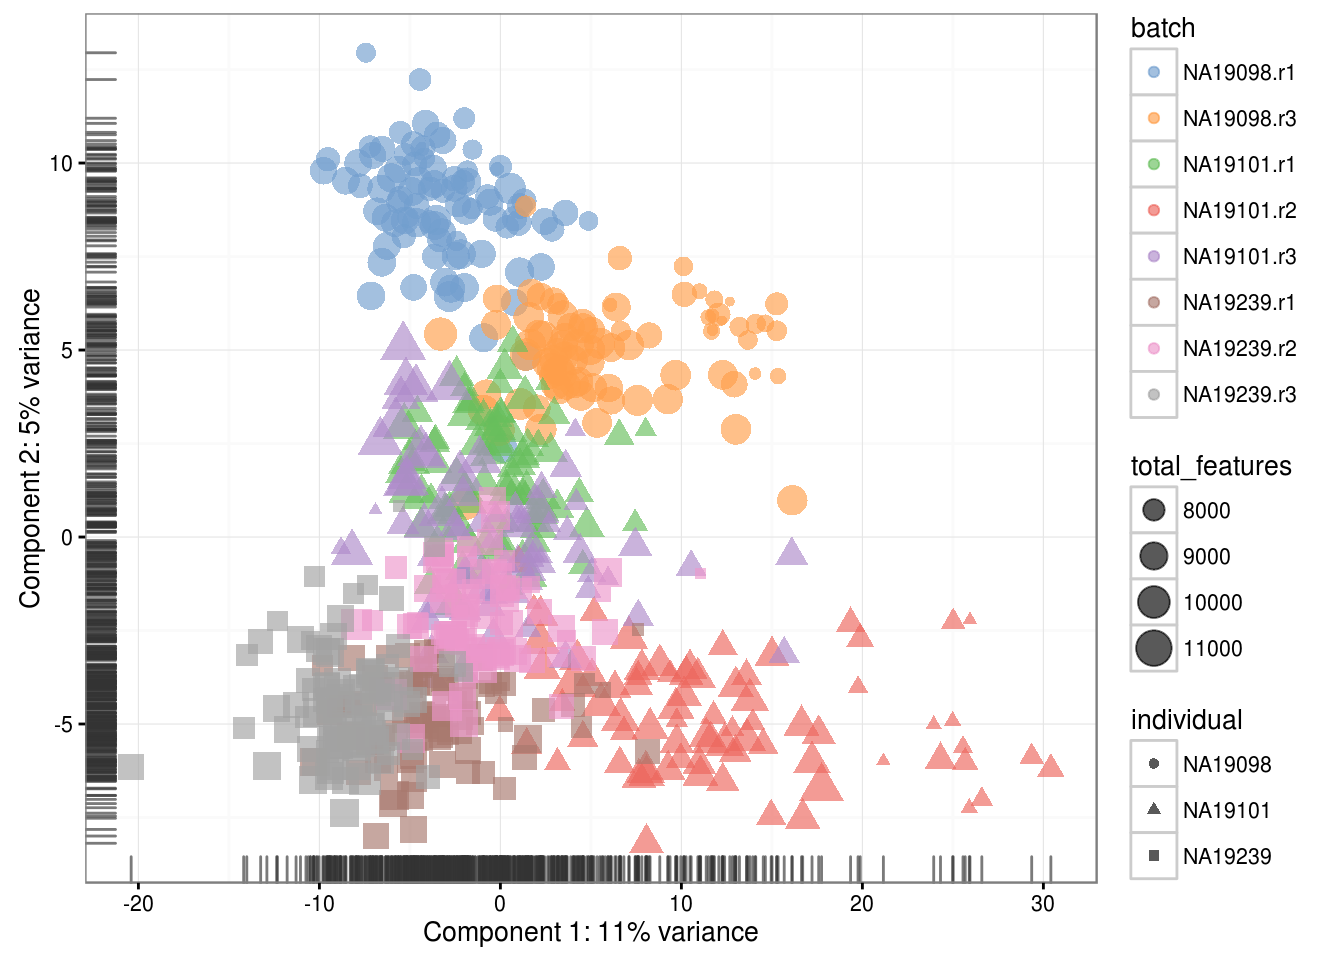
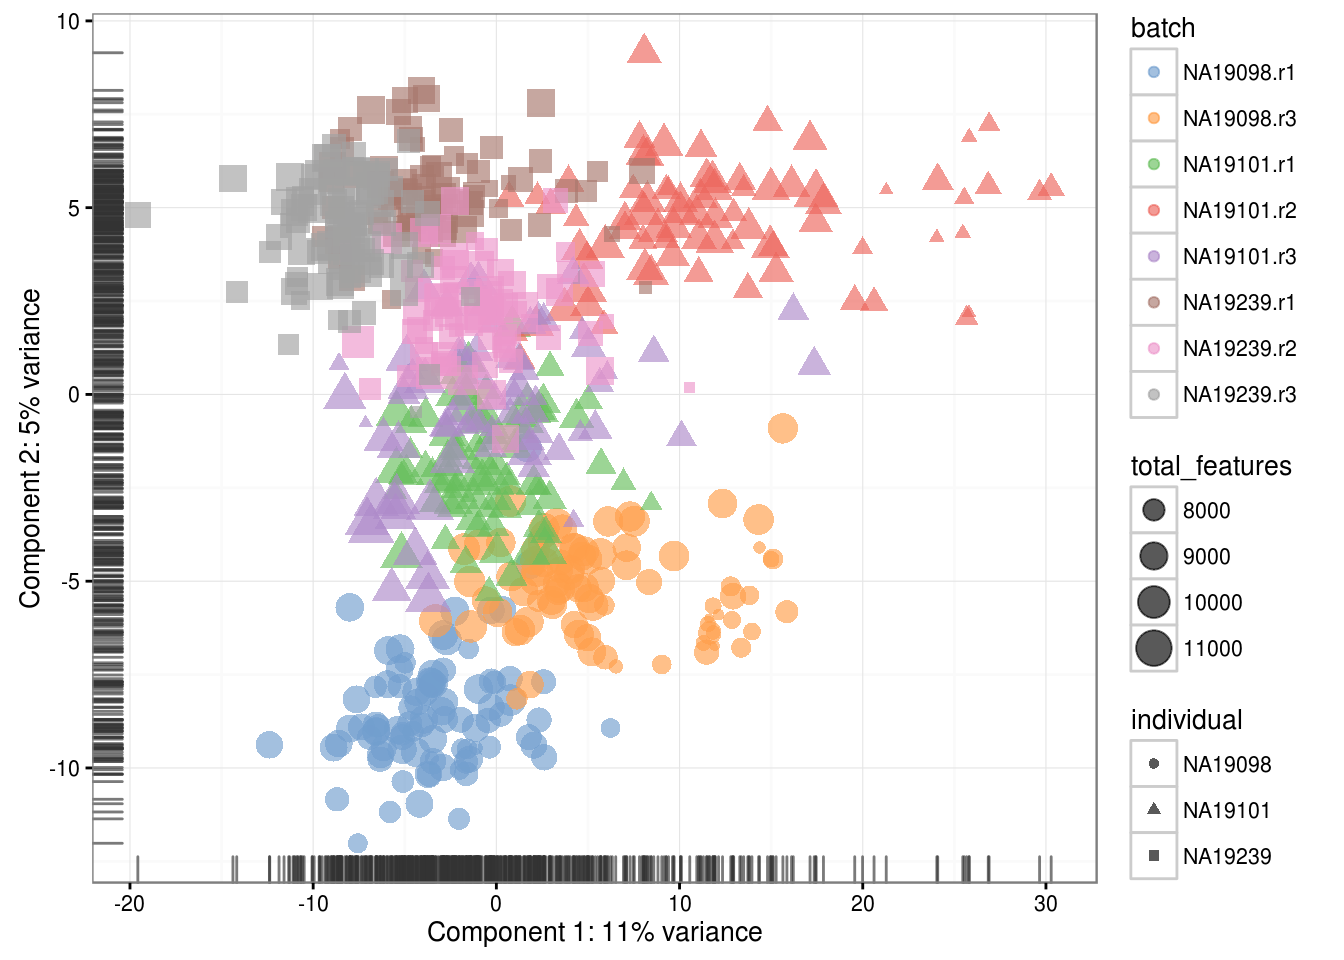
Build the book

diff --git a/normalization-for-library-size-reads.html b/normalization-for-library-size-reads.html
@@ -407,16 +407,28 @@ Figure 13.11: PCA plot of the blischak data after UQ normalisation
 Figure 13.12: Cell-wise RLE of the blischak data
 </p>
 </div>
+<div class="figure" style="text-align: center"><span id="fig:norm-pca-downsample-reads"></span>
+<img src="12-exprs-norm-reads_files/figure-html/norm-pca-downsample-reads-1.png" alt="PCA plot of the blischak data after downsampling" width="90%" />
+<p class="caption">
+Figure 13.13: PCA plot of the blischak data after downsampling
+</p>
+</div>
+<div class="figure" style="text-align: center"><span id="fig:norm-ours-rle-downsample-reads"></span>
+<img src="12-exprs-norm-reads_files/figure-html/norm-ours-rle-downsample-reads-1.png" alt="Cell-wise RLE of the blischak data" width="90%" />
+<p class="caption">
+Figure 13.14: Cell-wise RLE of the blischak data
+</p>
+</div>
 <div class="figure" style="text-align: center"><span id="fig:norm-pca-fpkm-reads"></span>
 <img src="12-exprs-norm-reads_files/figure-html/norm-pca-fpkm-reads-1.png" alt="PCA plot of the blischak data after FPKM normalisation" width="90%" />
 <p class="caption">
-Figure 13.13: PCA plot of the blischak data after FPKM normalisation
+Figure 13.15: PCA plot of the blischak data after FPKM normalisation
 </p>
 </div>
 <div class="figure" style="text-align: center"><span id="fig:norm-pca-tpm-reads"></span>
 <img src="12-exprs-norm-reads_files/figure-html/norm-pca-tpm-reads-1.png" alt="PCA plot of the blischak data after TPM normalisation" width="90%" />
 <p class="caption">
-Figure 13.14: PCA plot of the blischak data after TPM normalisation
+Figure 13.16: PCA plot of the blischak data after TPM normalisation
 </p>
 </div>
 

diff --git a/12-exprs-norm-reads.md b/12-exprs-norm-reads.md
@@ -62,6 +62,15 @@ knit: bookdown::preview_chapter
 <p class="caption">(\#fig:norm-ours-rle-uq-reads)Cell-wise RLE of the blischak data</p>
 </div>
 
+<div class="figure" style="text-align: center">
+<img src="12-exprs-norm-reads_files/figure-html/norm-pca-downsample-reads-1.png" alt="(\#fig:norm-pca-downsample-reads)PCA plot of the blischak data after downsampling" width="90%" />
+<p class="caption">(\#fig:norm-pca-downsample-reads)PCA plot of the blischak data after downsampling</p>
+</div>
+<div class="figure" style="text-align: center">
+<img src="12-exprs-norm-reads_files/figure-html/norm-ours-rle-downsample-reads-1.png" alt="(\#fig:norm-ours-rle-downsample-reads)Cell-wise RLE of the blischak data" width="90%" />
+<p class="caption">(\#fig:norm-ours-rle-downsample-reads)Cell-wise RLE of the blischak data</p>
+</div>
+
 
 
 
